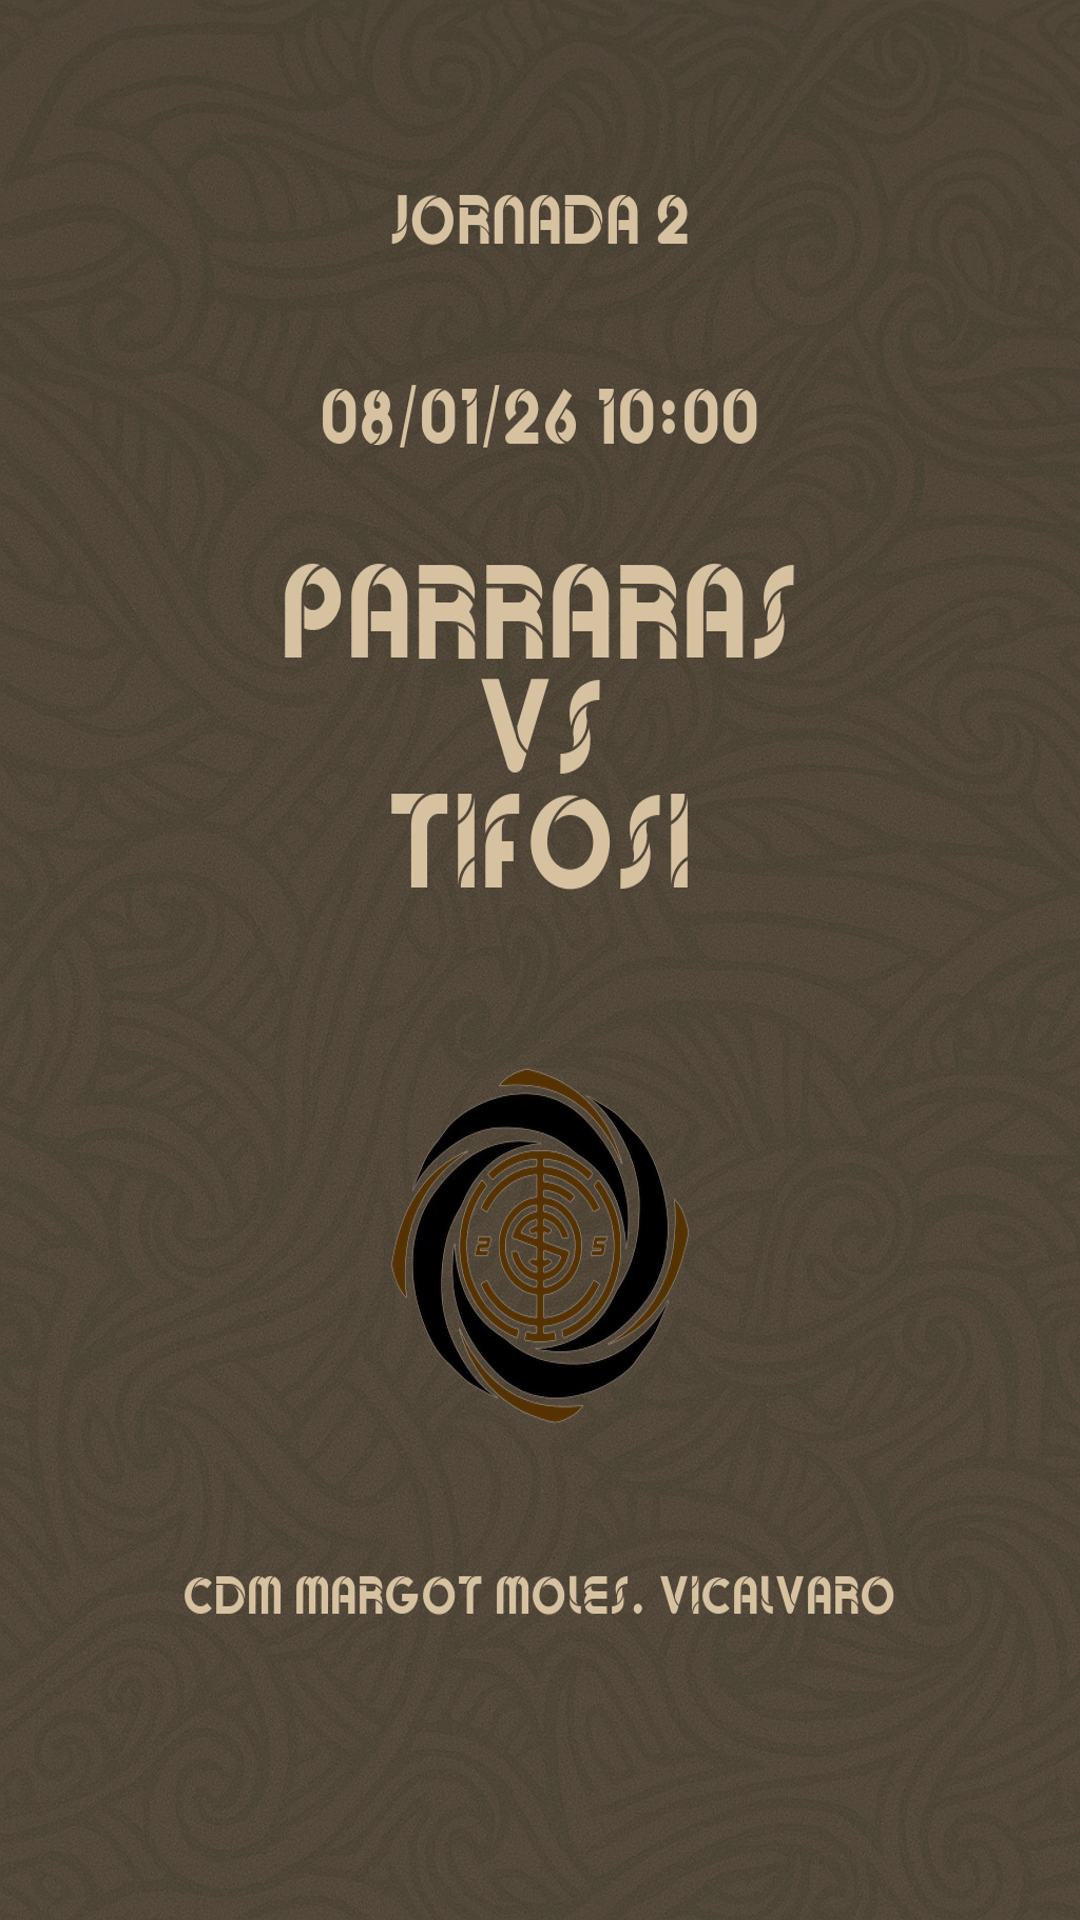
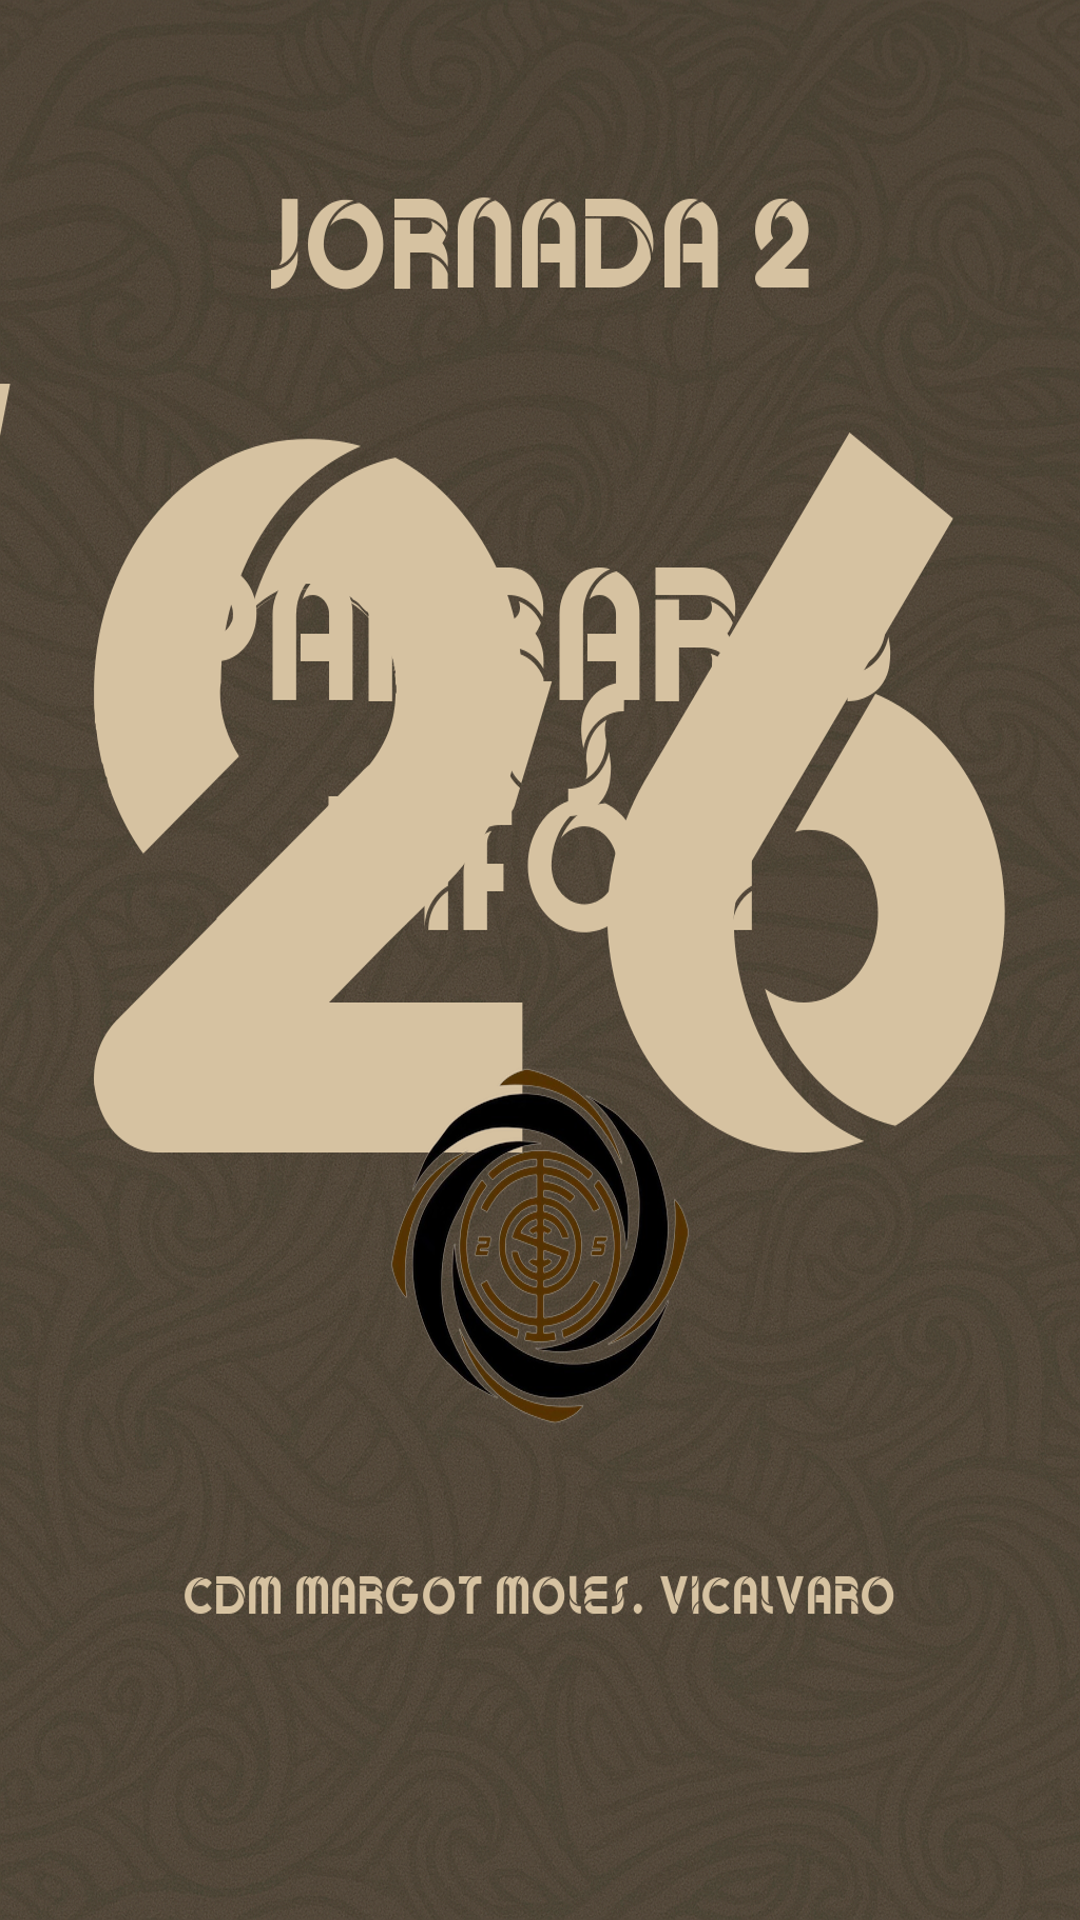
update web

diff --git a/image_generator.py b/image_generator.py
@@ -327,9 +327,9 @@ def generar_proximo(data):
     # =========================
     # FUENTES
     # =========================
-    font_jornada = ImageFont.truetype("fonts/Bauman-Regular.ttf", int(ancho * 0.055))
-    font_fecha = ImageFont.truetype("fonts/Bauman-Regular.ttf", int(ancho * 0.062))
-    font_equipo = ImageFont.truetype("fonts/Bauman-Regular.ttf", int(ancho * 0.105))
+    font_jornada = ImageFont.truetype("fonts/Bauman-Regular.ttf", int(ancho * 0.1))
+    font_fecha = ImageFont.truetype("fonts/Bauman-Regular.ttf", int(ancho * 0.8))
+    font_equipo = ImageFont.truetype("fonts/Bauman-Regular.ttf", int(ancho * 0.15))
     font_ubicacion = ImageFont.truetype("fonts/Bauman-Regular.ttf", int(ancho * 0.042))
 
     # =========================
